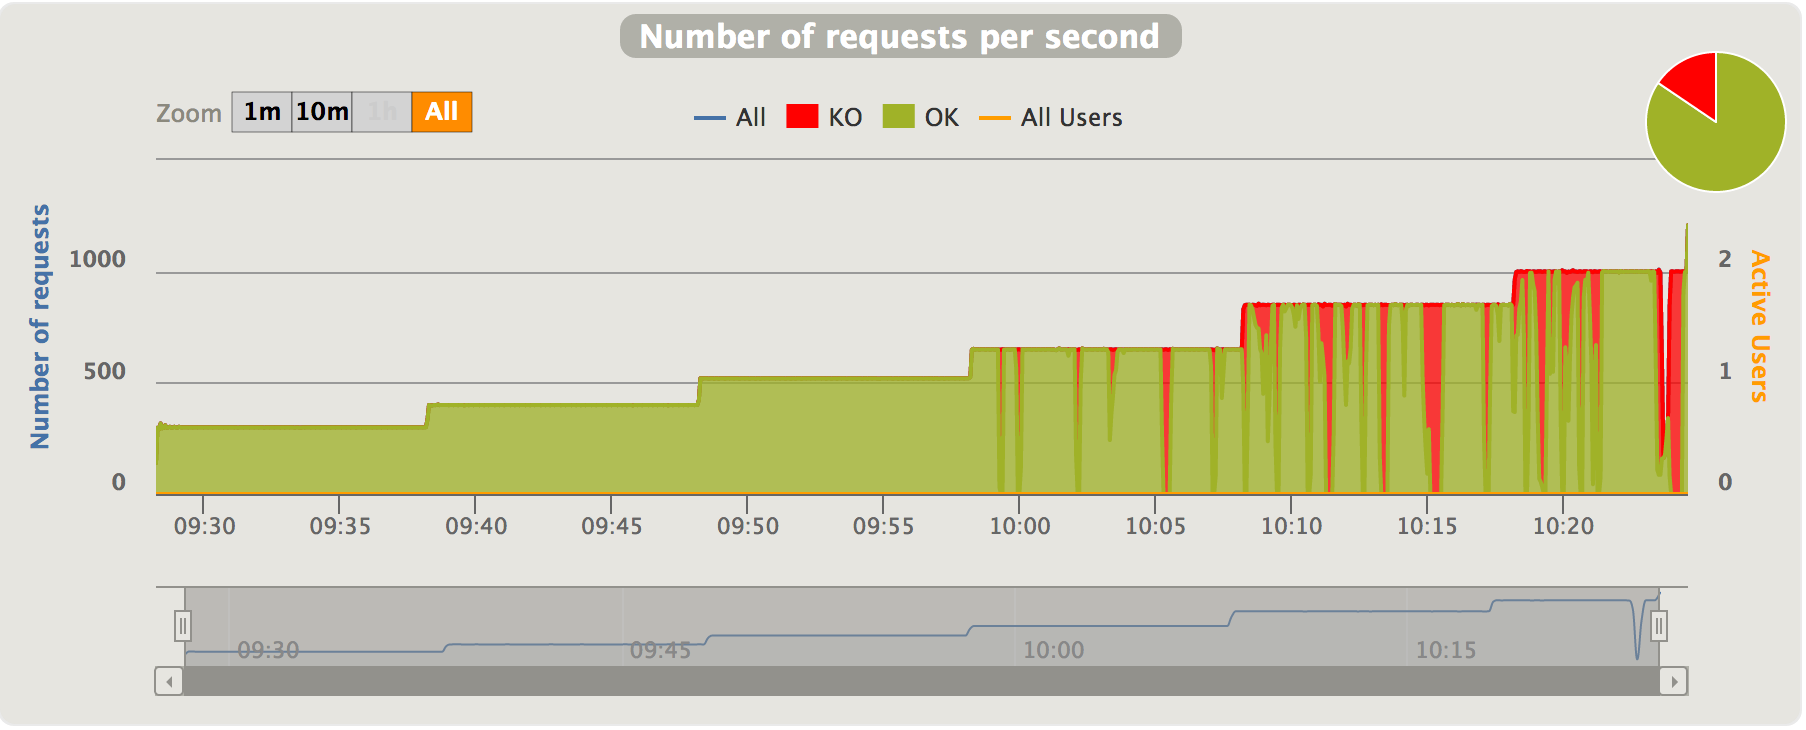
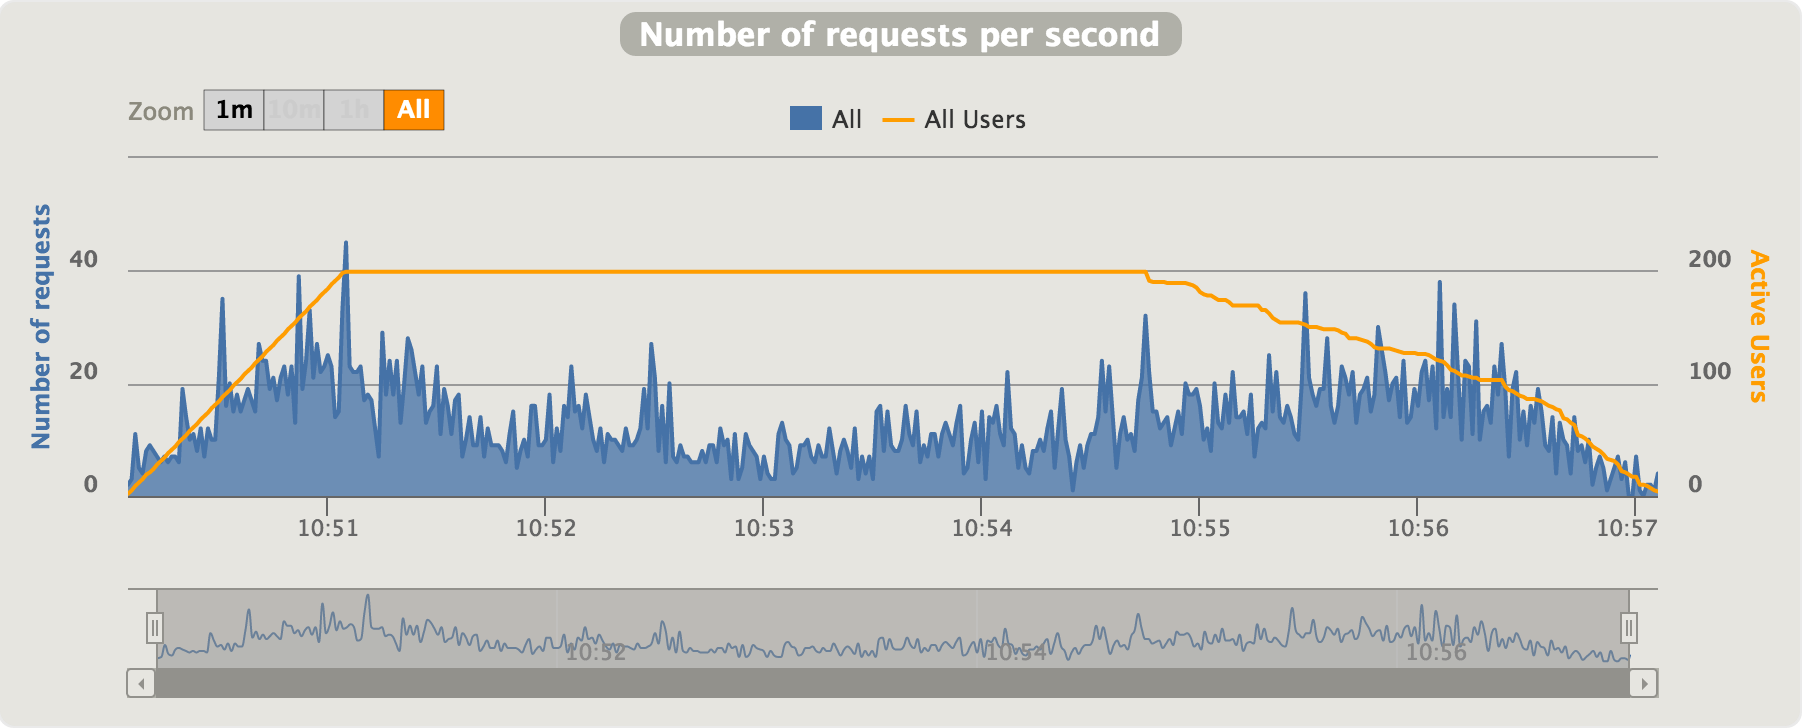
Update doc with new requests/sec chart

diff --git a/src/sphinx/general/reports.rst b/src/sphinx/general/reports.rst
@@ -76,7 +76,7 @@ Requests per second over time
     :alt: RequestsPerSecond
     :scale: 70
 
-This chart displays the number of requests per second over time : total, successes and failures.
+This chart displays the number of requests sent per second over time.
 
 Responses per second over time
 ------------------------------
